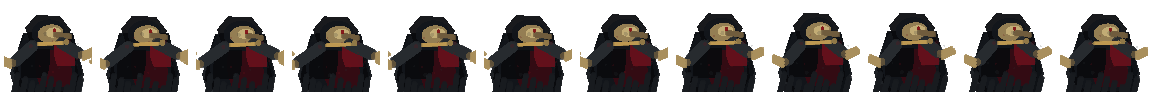
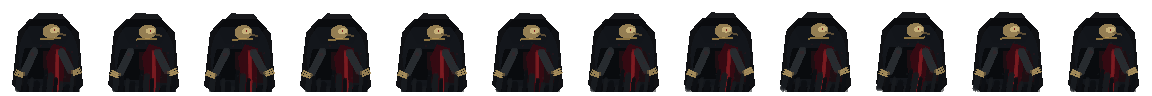
fix: redesign gothic enemy assets

diff --git a/tools/generateEnemyBossSheets.py b/tools/generateEnemyBossSheets.py
@@ -82,169 +82,157 @@ def draw_cathedral_ghoul(
     smear: float,
     crouch: float = 0.0,
 ) -> None:
-    bob = math.sin(phase) * 1.2 + crouch
-    cx = fw * 0.5 + attack_reach * 3.0
-    cy = fh * 0.60 + bob
-    shoulder_x = cx - 1.0
-    shoulder_y = cy - 20.0
-
-    draw_rotated_ellipse(pixels, sheet_width, x_offset, cx - 1, cy + 31, 34, 8, 0.0, SHADOW, fw, fh)
-
+    bob = math.sin(phase) * 0.7 + crouch
+    cx = fw * 0.5 + attack_reach * 1.2
+    cy = fh * 0.58 + bob
     fixed_cx = fw * 0.5
-    back_cloak_points = [
-        (fixed_cx - 25, cy - 25),
-        (fixed_cx + 25, cy - 25),
-        (fixed_cx + 34, cy + 15),
-        (fixed_cx + 29, cy + 38),
-        (fixed_cx + 10, cy + 34),
-        (fixed_cx - 5, cy + 43),
-        (fixed_cx - 22, cy + 37),
-        (fixed_cx - 35, cy + 14),
+    cloth_sway = math.sin(phase + 0.5) * 1.2 + stride * 1.4
+
+    draw_rotated_ellipse(pixels, sheet_width, x_offset, fixed_cx, cy + 34, 32, 8, 0.0, SHADOW, fw, fh)
+
+    back_cloak = [
+        (fixed_cx - 30, cy - 24),
+        (fixed_cx - 18, cy - 37),
+        (fixed_cx + 18, cy - 37),
+        (fixed_cx + 31, cy - 23),
+        (fixed_cx + 35, cy + 30),
+        (fixed_cx + 22, cy + 43),
+        (fixed_cx + 5, cy + 38),
+        (fixed_cx - 7, cy + 44),
+        (fixed_cx - 24, cy + 40),
+        (fixed_cx - 36, cy + 29),
     ]
-    draw_polygon(pixels, sheet_width, x_offset, back_cloak_points, (10, 12, 16, 238), fw, fh)
+    draw_polygon(pixels, sheet_width, x_offset, back_cloak, (7, 8, 11, 246), fw, fh)
 
-    mantle_points = [
-        (cx - 25, cy - 24),
-        (cx + 25, cy - 24),
-        (cx + 36, cy + 17),
-        (cx + 26, cy + 43),
-        (cx + 3, cy + 41),
-        (cx - 13, cy + 45),
-        (cx - 31, cy + 40),
-        (cx - 38, cy + 16),
+    hood = [
+        (cx - 23, cy - 29),
+        (cx - 9, cy - 43),
+        (cx + 14, cy - 42),
+        (cx + 25, cy - 28),
+        (cx + 17, cy - 12),
+        (cx - 15, cy - 12),
     ]
-    draw_polygon(pixels, sheet_width, x_offset, mantle_points, (13, 16, 20, 236), fw, fh)
+    draw_polygon(pixels, sheet_width, x_offset, hood, INK, fw, fh)
+    draw_rotated_ellipse(pixels, sheet_width, x_offset, cx, cy + 1, 30, 39, -0.05, COAT, fw, fh)
+    draw_rotated_ellipse(pixels, sheet_width, x_offset, cx - 12, cy + 8, 15, 33, 0.12, (8, 10, 13, 238), fw, fh)
+    draw_rotated_ellipse(pixels, sheet_width, x_offset, cx + 10, cy + 11, 15, 31, -0.18, (30, 14, 18, 228), fw, fh)
 
-    rear_leg = stride * -8.0
-    front_leg = stride * 8.0
-    draw_limb(pixels, sheet_width, x_offset, cx - 10, cy + 20, cx - 19 + rear_leg, cy + 36, 5, COAT_EDGE, fw, fh)
-    draw_limb(pixels, sheet_width, x_offset, cx + 7, cy + 20, cx + 15 + front_leg, cy + 36, 5, INK, fw, fh)
-    draw_rotated_ellipse(pixels, sheet_width, x_offset, cx - 21 + rear_leg, cy + 37, 8, 3, -0.2, BONE_DARK, fw, fh)
-    draw_rotated_ellipse(pixels, sheet_width, x_offset, cx + 17 + front_leg, cy + 37, 8, 3, 0.1, BONE_DARK, fw, fh)
-
-    cloak_points = [
-        (cx - 27, cy - 17),
-        (cx + 24, cy - 18),
-        (cx + 31 + stride * 2, cy + 20),
-        (cx + 20, cy + 39),
-        (cx + 5, cy + 35),
-        (cx - 7, cy + 42),
-        (cx - 22, cy + 37),
-        (cx - 34 - stride * 2, cy + 21),
+    crimson_fold = [
+        (cx + 5, cy - 12),
+        (cx + 18, cy - 8),
+        (cx + 14 + cloth_sway, cy + 34),
+        (cx + 3 + cloth_sway * 0.5, cy + 40),
+        (cx - 2, cy + 1),
     ]
-    draw_polygon(pixels, sheet_width, x_offset, cloak_points, INK, fw, fh)
-    draw_rotated_ellipse(pixels, sheet_width, x_offset, cx - 2, cy + 4, 29, 38, -0.06, COAT, fw, fh)
-    draw_rotated_ellipse(pixels, sheet_width, x_offset, cx + 5, cy + 11, 18, 32, -0.17, DEEP_CRIMSON, fw, fh)
-    draw_rotated_ellipse(pixels, sheet_width, x_offset, cx - 13, cy + 6, 14, 30, 0.16, INK, fw, fh)
-    draw_rotated_ellipse(pixels, sheet_width, x_offset, cx + 16, cy - 2, 10, 22, -0.28, CRIMSON, fw, fh)
+    draw_polygon(pixels, sheet_width, x_offset, crimson_fold, DEEP_CRIMSON, fw, fh)
+    draw_limb(pixels, sheet_width, x_offset, cx + 9, cy - 5, cx + 8 + cloth_sway, cy + 35, 2, (127, 28, 33, 124), fw, fh)
 
-    for i in range(10):
-        tail_x = cx - 31 + i * 7 + math.sin(phase + i) * 1.1
-        tail_y = cy + 17 + (i % 4) * 4
-        draw_limb(pixels, sheet_width, x_offset, tail_x, tail_y, tail_x - 4 + stride * 1.2, tail_y + 20, 3, (24, 27, 31, 178), fw, fh)
+    for i in range(12):
+        tail_x = cx - 28 + i * 5.2 + math.sin(phase + i * 0.7) * 0.9
+        tail_y = cy + 15 + (i % 5) * 4
+        tail_len = 18 + (i % 4) * 4
+        color = (13, 15, 19, 186) if i % 2 else (23, 26, 30, 154)
+        draw_limb(pixels, sheet_width, x_offset, tail_x, tail_y, tail_x - 3 + cloth_sway * 0.7, tail_y + tail_len, 2 + (i % 3 == 0), color, fw, fh)
 
-    head_x = shoulder_x - 1 + attack_reach * 1.5
-    head_y = shoulder_y - 6 + math.sin(phase + 0.6) * 0.7
-    hood_points = [
-        (head_x - 21, head_y - 4),
-        (head_x - 10, head_y - 17),
-        (head_x + 14, head_y - 16),
-        (head_x + 25, head_y - 2),
-        (head_x + 17, head_y + 13),
-        (head_x - 15, head_y + 14),
-    ]
-    draw_polygon(pixels, sheet_width, x_offset, hood_points, INK, fw, fh)
-    draw_rotated_ellipse(pixels, sheet_width, x_offset, head_x + 2, head_y, 17, 13, -0.12, COAT, fw, fh)
-    draw_rotated_ellipse(pixels, sheet_width, x_offset, head_x + 4, head_y + 1, 13, 9, -0.14, BONE, fw, fh)
-    draw_rotated_ellipse(pixels, sheet_width, x_offset, head_x + 7, head_y, 8, 5, -0.12, (206, 184, 126, 204), fw, fh)
-    draw_limb(pixels, sheet_width, x_offset, head_x + 9, head_y + 2, head_x + 23, head_y + 4, 3, BONE_DARK, fw, fh)
-    draw_circle(pixels, sheet_width, x_offset, head_x + 8, head_y - 2, 2, (126, 11, 18, 230), fw, fh)
+    mask_x = cx + 3 + attack_reach * 0.8
+    mask_y = cy - 25 + math.sin(phase + 0.2) * 0.35
+    draw_rotated_ellipse(pixels, sheet_width, x_offset, mask_x, mask_y, 9, 7, -0.08, BONE, fw, fh)
+    draw_rotated_ellipse(pixels, sheet_width, x_offset, mask_x + 3, mask_y - 1, 5, 3, -0.1, (214, 192, 134, 196), fw, fh)
+    draw_circle(pixels, sheet_width, x_offset, mask_x + 3, mask_y - 1, 1, (118, 9, 15, 224), fw, fh)
+    draw_limb(pixels, sheet_width, x_offset, mask_x + 6, mask_y + 2, mask_x + 14, mask_y + 4, 1, BONE_DARK, fw, fh)
 
-    arm_swing = stride * 5.0
-    reach = attack_reach * 24.0
-    draw_limb(pixels, sheet_width, x_offset, shoulder_x - 15, shoulder_y + 8, shoulder_x - 32 - arm_swing, shoulder_y + 23, 6, COAT_EDGE, fw, fh)
-    draw_claw(pixels, sheet_width, x_offset, shoulder_x - 35 - arm_swing, shoulder_y + 25, -1.0, fw, fh)
-    draw_limb(pixels, sheet_width, x_offset, shoulder_x + 14, shoulder_y + 5, shoulder_x + 31 + arm_swing + reach, shoulder_y + 15 - abs(attack_reach) * 4, 6, COAT_EDGE, fw, fh)
-    draw_claw(pixels, sheet_width, x_offset, shoulder_x + 34 + arm_swing + reach, shoulder_y + 17 - abs(attack_reach) * 4, 1.0, fw, fh)
+    arm_sway = stride * 4.0
+    draw_limb(pixels, sheet_width, x_offset, cx - 14, cy - 5, cx - 24 - arm_sway * 0.2, cy + 16, 4, COAT_EDGE, fw, fh)
+    draw_claw(pixels, sheet_width, x_offset, cx - 25 - arm_sway * 0.2, cy + 18, -1.0, fw, fh)
+    reach = max(0.0, attack_reach) * 18.0
+    draw_limb(pixels, sheet_width, x_offset, cx + 13, cy - 4, cx + 22 + arm_sway * 0.25 + reach, cy + 14 - reach * 0.18, 4, COAT_EDGE, fw, fh)
+    draw_claw(pixels, sheet_width, x_offset, cx + 24 + arm_sway * 0.25 + reach, cy + 16 - reach * 0.18, 1.0, fw, fh)
 
     if smear > 0.0:
-        draw_limb(pixels, sheet_width, x_offset, shoulder_x + 23, shoulder_y + 12, shoulder_x + 62, shoulder_y + 6, 7, (SMEAR[0], SMEAR[1], SMEAR[2], int(SMEAR[3] * smear)), fw, fh)
-        draw_limb(pixels, sheet_width, x_offset, shoulder_x + 31, shoulder_y + 21, shoulder_x + 72, shoulder_y + 16, 4, (BONE[0], BONE[1], BONE[2], int(170 * smear)), fw, fh)
+        draw_limb(pixels, sheet_width, x_offset, cx + 19, cy + 3, cx + 48, cy + 20, 6, (30, 12, 16, int(142 * smear)), fw, fh)
+        draw_limb(pixels, sheet_width, x_offset, cx + 27, cy + 10, cx + 56, cy + 31, 3, (132, 29, 34, int(96 * smear)), fw, fh)
+        draw_limb(pixels, sheet_width, x_offset, cx + 36, cy + 15, cx + 58, cy + 23, 2, (BONE[0], BONE[1], BONE[2], int(142 * smear)), fw, fh)
 
-    for i in range(18):
-        angle = -2.5 + i * 0.28 + phase * 0.04
-        radius = 22 + (i % 4) * 4
-        color = (106, 15, 24, 58) if i % 2 == 0 else (42, 48, 52, 46)
-        draw_circle(
-            pixels,
-            sheet_width,
-            x_offset,
-            cx + math.cos(angle) * radius,
-            cy - 4 + math.sin(angle) * radius * 0.60,
-            1 + (i % 3 == 0),
-            color,
-            fw,
-            fh,
-        )
+    for i in range(14):
+        angle = -2.5 + i * 0.32 + phase * 0.03
+        radius = 20 + (i % 4) * 4
+        color = (92, 17, 24, 44) if i % 2 == 0 else (44, 49, 52, 44)
+        draw_circle(pixels, sheet_width, x_offset, cx + math.cos(angle) * radius, cy + 5 + math.sin(angle) * radius * 0.58, 1 + (i % 5 == 0), color, fw, fh)
 
-    draw_limb(pixels, sheet_width, x_offset, cx - 10, cy - 14, cx + 14, cy - 15, 2, BRASS, fw, fh)
-    draw_circle(pixels, sheet_width, x_offset, cx + 18, cy - 16, 3, BRASS, fw, fh)
+    draw_limb(pixels, sheet_width, x_offset, cx - 8, cy - 17, cx + 12, cy - 18, 1, BRASS, fw, fh)
 
 
 def draw_claw(pixels: bytearray, sheet_width: int, x_offset: int, cx: float, cy: float, sign: float, fw: int, fh: int) -> None:
-    draw_circle(pixels, sheet_width, x_offset, cx, cy, 4, BONE_DARK, fw, fh)
+    draw_circle(pixels, sheet_width, x_offset, cx, cy, 2, BONE_DARK, fw, fh)
     for i in range(3):
-        draw_limb(pixels, sheet_width, x_offset, cx + sign * 2, cy - 2 + i * 3, cx + sign * (11 + i * 2), cy - 6 + i * 2, 2, BONE, fw, fh)
+        draw_limb(pixels, sheet_width, x_offset, cx + sign * 1, cy - 1 + i * 2, cx + sign * (7 + i), cy - 4 + i * 2, 1, BONE, fw, fh)
 
 
 def draw_boss_frame(pixels: bytearray, sheet_width: int, x_offset: int, fw: int, fh: int, frame: int) -> None:
     pulse = math.sin(frame / BOSS_FRAMES * math.tau)
     cx = fw * 0.5
-    cy = fh * 0.58 + pulse * 1.6
+    cy = fh * 0.58 + pulse * 1.0
+    sway = math.sin(frame / BOSS_FRAMES * math.tau + 0.7) * 2.0
 
-    draw_rotated_ellipse(pixels, sheet_width, x_offset, cx, cy + 39, 66, 18, 0.0, (10, 11, 13, 160), fw, fh)
-    robe_points = [
-        (cx - 55, cy - 39),
-        (cx - 35, cy - 58),
-        (cx + 34, cy - 59),
-        (cx + 58, cy - 37),
-        (cx + 70, cy + 51),
-        (cx + 38, cy + 68),
-        (cx + 12, cy + 58),
-        (cx - 15, cy + 70),
-        (cx - 43, cy + 58),
-        (cx - 72, cy + 49),
+    draw_rotated_ellipse(pixels, sheet_width, x_offset, cx, cy + 44, 66, 18, 0.0, (7, 8, 10, 172), fw, fh)
+    back_robe = [
+        (cx - 62, cy - 45),
+        (cx - 40, cy - 67),
+        (cx + 36, cy - 68),
+        (cx + 62, cy - 45),
+        (cx + 73, cy + 49),
+        (cx + 45, cy + 70),
+        (cx + 10, cy + 60),
+        (cx - 14, cy + 72),
+        (cx - 48, cy + 66),
+        (cx - 76, cy + 47),
     ]
-    draw_polygon(pixels, sheet_width, x_offset, robe_points, INK, fw, fh)
-    draw_rotated_ellipse(pixels, sheet_width, x_offset, cx, cy + 8, 58, 63, -0.04, (22, 14, 19, 244), fw, fh)
-    draw_rotated_ellipse(pixels, sheet_width, x_offset, cx - 12, cy + 1, 42, 54, 0.08, DEEP_CRIMSON, fw, fh)
-    draw_rotated_ellipse(pixels, sheet_width, x_offset, cx + 20, cy - 5, 26, 48, -0.22, CRIMSON, fw, fh)
-    draw_rotated_ellipse(pixels, sheet_width, x_offset, cx - 42, cy + 10, 22, 50, 0.42, COAT, fw, fh)
-    draw_rotated_ellipse(pixels, sheet_width, x_offset, cx + 47, cy + 8, 21, 48, -0.46, COAT, fw, fh)
-    draw_rotated_ellipse(pixels, sheet_width, x_offset, cx, cy - 44, 35, 25, 0.0, INK, fw, fh)
-    draw_rotated_ellipse(pixels, sheet_width, x_offset, cx - 2, cy - 39, 25, 15, -0.08, BONE, fw, fh)
-    draw_rotated_ellipse(pixels, sheet_width, x_offset, cx + 13, cy - 43, 12, 7, 0.0, (210, 181, 112, 214), fw, fh)
+    draw_polygon(pixels, sheet_width, x_offset, back_robe, (6, 7, 10, 248), fw, fh)
+    draw_rotated_ellipse(pixels, sheet_width, x_offset, cx, cy + 8, 58, 64, -0.03, COAT, fw, fh)
+    draw_rotated_ellipse(pixels, sheet_width, x_offset, cx - 31, cy + 14, 25, 52, 0.32, (8, 10, 13, 240), fw, fh)
+    draw_rotated_ellipse(pixels, sheet_width, x_offset, cx + 35, cy + 13, 25, 52, -0.34, (8, 10, 13, 240), fw, fh)
 
-    draw_limb(pixels, sheet_width, x_offset, cx - 31, cy - 49, cx - 64, cy - 47, 5, (31, 35, 37, 218), fw, fh)
-    draw_limb(pixels, sheet_width, x_offset, cx + 31, cy - 49, cx + 64, cy - 47, 5, (31, 35, 37, 218), fw, fh)
-    draw_limb(pixels, sheet_width, x_offset, cx - 45, cy - 41, cx - 83, cy - 40, 5, (92, 18, 26, 176), fw, fh)
-    draw_limb(pixels, sheet_width, x_offset, cx + 45, cy - 41, cx + 83, cy - 40, 5, (92, 18, 26, 176), fw, fh)
+    crimson_fold = [
+        (cx - 8, cy - 33),
+        (cx + 24, cy - 20),
+        (cx + 20 + sway, cy + 57),
+        (cx + 4, cy + 66),
+        (cx - 10, cy + 10),
+    ]
+    draw_polygon(pixels, sheet_width, x_offset, crimson_fold, DEEP_CRIMSON, fw, fh)
+    draw_limb(pixels, sheet_width, x_offset, cx + 11, cy - 15, cx + 9 + sway, cy + 55, 3, (128, 28, 34, 128), fw, fh)
 
-    for i in range(26):
-        angle = -2.8 + i * 0.22 + frame * 0.035
-        radius = 58 + (i * 7 % 31)
-        color = (126, 19, 29, 92) if i % 3 == 0 else (42, 51, 56, 78)
-        draw_circle(
-            pixels,
-            sheet_width,
-            x_offset,
-            cx + math.cos(angle) * radius,
-            cy + math.sin(angle) * radius * 0.62,
-            3 + (i % 3),
-            color,
-            fw,
-            fh,
-        )
+    hood = [
+        (cx - 35, cy - 47),
+        (cx - 16, cy - 67),
+        (cx + 18, cy - 67),
+        (cx + 37, cy - 47),
+        (cx + 26, cy - 25),
+        (cx - 25, cy - 25),
+    ]
+    draw_polygon(pixels, sheet_width, x_offset, hood, INK, fw, fh)
+    mask_y = cy - 46 + pulse * 0.35
+    draw_rotated_ellipse(pixels, sheet_width, x_offset, cx + 2, mask_y, 18, 11, -0.06, BONE, fw, fh)
+    draw_rotated_ellipse(pixels, sheet_width, x_offset, cx + 9, mask_y - 1, 8, 4, -0.08, (218, 192, 126, 202), fw, fh)
+    draw_circle(pixels, sheet_width, x_offset, cx + 8, mask_y - 1, 2, (122, 11, 18, 230), fw, fh)
+    draw_limb(pixels, sheet_width, x_offset, cx + 13, mask_y + 3, cx + 27, mask_y + 8, 2, BONE_DARK, fw, fh)
+
+    for i in range(24):
+        tail_x = cx - 58 + i * 5.0 + math.sin(frame * 0.4 + i) * 1.4
+        tail_y = cy + 20 + (i % 6) * 5
+        color = (13, 16, 19, 168) if i % 2 else (33, 38, 40, 112)
+        draw_limb(pixels, sheet_width, x_offset, tail_x, tail_y, tail_x - 4 + sway * 0.7, tail_y + 27 + (i % 4) * 4, 3, color, fw, fh)
+
+    draw_limb(pixels, sheet_width, x_offset, cx - 33, cy - 28, cx - 55, cy - 2, 5, COAT_EDGE, fw, fh)
+    draw_limb(pixels, sheet_width, x_offset, cx + 33, cy - 28, cx + 55, cy - 2, 5, COAT_EDGE, fw, fh)
+    draw_claw(pixels, sheet_width, x_offset, cx - 58, cy + 1, -1.0, fw, fh)
+    draw_claw(pixels, sheet_width, x_offset, cx + 58, cy + 1, 1.0, fw, fh)
+
+    for i in range(28):
+        angle = -2.7 + i * 0.22 + frame * 0.035
+        radius = 55 + (i * 7 % 29)
+        color = (96, 18, 27, 74) if i % 3 == 0 else (44, 51, 56, 62)
+        draw_circle(pixels, sheet_width, x_offset, cx + math.cos(angle) * radius, cy + 7 + math.sin(angle) * radius * 0.62, 2 + (i % 3), color, fw, fh)
 
 
 def draw_limb(
